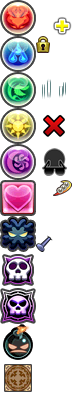
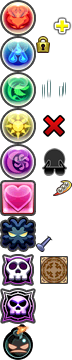
增加版面的状态合并

diff --git a/script-skill-parser.js b/script-skill-parser.js
@@ -96,6 +96,22 @@ function isEqual(obj1,obj2) {
 	// 3.全相等
 	return true
 }
+class Orb
+{
+	color = null;
+	states = [];
+	enhanced = false; //锁定
+	locked = false; //锁定
+	bound = false;
+	variation = false; //随机变换
+	constructor(color)
+	{
+		this.color = color;
+	}
+	valueOf() {
+		return this.color;
+	}
+}
 class Board
 {
 	rowCount = 6;
@@ -105,8 +121,14 @@ class Board
 	{
 		for (let ri=0;ri<this.rowCount;ri++)
 		{
-			this.data.push(new Array(this.columnCount).fill(Array.isArray(def) ? null : def));
+			const col = [];
+			for (let ci=0;ci<this.columnCount;ci++)
+			{
+				col.push(new Orb(Array.isArray(def) ? null : def));
+			}
+			this.data.push(col);
 		}
+		//如果传入的是数组，直接随机分布
 		if (Array.isArray(def))
 		{
 			this.randomFill(def);
@@ -127,8 +149,12 @@ class Board
 			{
 				if (ci == 3) ci++;
 				//从数组中随机取出一个
-				if (exclude && exclude.includes(row[ci])) continue;
-				row[ci] = o.next().value?.[1] ?? row[ci];
+				if (exclude && exclude.includes(row[ci].color)) continue;
+				const c = o.next().value?.[1] ?? row[ci].color;
+				if (c == "variation")
+					row[ci].states.push(c);
+				else
+					row[ci].color = c;
 			}
 		}
 		//填充剩下的部分
@@ -136,14 +162,22 @@ class Board
 		{
 			if (ri == 2) ri++;
 			const row = this.data[ri];
-			if (exclude && exclude.includes(row[3])) continue;
-			row[3] = o.next().value?.[1] ?? row[3] ;
+			if (exclude && exclude.includes(row[3].color)) continue;
+			const c = o.next().value?.[1] ?? row[3].color;
+			if (c == "variation")
+				row[3].states.push(c);
+			else
+				row[3].color = c;
 		}
 		const row = this.data[2];
 		for (let ci=0;ci<row.length;ci++)
 		{
-			if (exclude && exclude.includes(row[ci])) continue;
-			row[ci] = o.next().value?.[1] ?? row[ci] ;
+			if (exclude && exclude.includes(row[ci].color)) continue;
+			const c = o.next().value?.[1] ?? row[3].color;
+			if (c == "variation")
+				row[ci].states.push(c);
+			else
+				row[ci].color = c;
 		}
 	}
 	//将有序数组转为随机的数组
@@ -196,27 +230,27 @@ class Board
 		this.sequenceFill(randomData, exclude);
 	}
 	//设定横行
-	setRow(rows, attr = 0)
+	setRow(rowsNumber, attr = 0)
 	{
-		for (let row of rows)
+		for (let row of rowsNumber)
 		{
 			if (row >= 2) row++;
 			const rowData = this.data[row];
 			for (let ri=0;ri<rowData.length;ri++)
 			{
-				rowData[ri] = attr;
+				rowData[ri].color = attr;
 			}
 		}
 	}
 	//设定竖列
-	setColumn(cols, attr = 0)
+	setColumn(colsNumber, attr = 0)
 	{
-		for (let col of cols)
+		for (let col of colsNumber)
 		{
 			if (col >= 3) col++;
 			for (let row of this.data)
 			{
-				row[col] = attr;
+				row[col].color = attr;
 			}
 		}
 	}
@@ -225,14 +259,22 @@ class Board
 	{
 		function fillRow(rowData, inputRow, attr)
 		{
-			for (let col of inputRow)
+			for (const col of inputRow)
 			{
-				if (col == 3) rowData[col] = attr;
+				if (col == 3) {
+					if (attr == "variation")
+						rowData[col].states.push(attr);
+					else
+						rowData[col].color = attr;
+				}
 				if (col >= 3) col++;
-				rowData[col] = attr;
+				if (attr == "variation")
+					rowData[col].states.push(attr);
+				else
+					rowData[col].color = attr;
 			}
 		}
-		for (let ri=0;ri<matrix.length;ri++)
+		for (let ri=0; ri<matrix.length; ri++)
 		{
 			if (ri == 2)
 			{
@@ -244,13 +286,13 @@ class Board
 	//面板叠加
 	overlayBoard(board)
 	{	
-		for (let ri=0;ri<board.length;ri++)
+		for (let ri=0; ri<board.length; ri++)
 		{
 			const rowNew = board[ri];
 			const rowOld = this.data[ri];
-			for (let ci=0;ci<rowNew.length;ci++)
+			for (let ci=0; ci < rowNew.length; ci++)
 			{
-				rowOld[ci] = rowNew[ci] ?? rowOld[ci];
+				rowOld[ci] = Object.assign(rowOld[ci], rowNew[ci]);
 			}
 		}
 	}
@@ -263,6 +305,7 @@ class Board
 	toTable()
 	{
 		const table = document.createElement("table");
+		table.boardData = this.data;
 		table.className = "board";
 		this.data.forEach((rowData, ri, rArr) => {
 			const row = table.insertRow();
@@ -272,15 +315,16 @@ class Board
 				const cell = row.insertCell();
 				const orb = cell.appendChild(document.createElement('icon'));
 				orb.className = "orb";
-				if (orbType != null) orb.setAttribute("data-orb-icon", orbType);
+				if (orbType.color != null) orb.setAttribute("data-orb-icon", orbType.color);
+				orbType.states.forEach(state=>orb.classList.add(state));
 				if (ci == 3 && cArr.length > 6) cell.classList.add("board-cell5");
 			});
 		});
-		if (this.data.length > 5)
-		{
-			table.onclick = function() {
-				this.classList.toggle("board-76");
-			};
+		if (this.data.length > 5) {
+			table.onclick = toggle76;
+		}
+		function toggle76() {
+			this.classList.toggle("board-76");
 		}
 		return table;
 	}
@@ -1522,8 +1566,9 @@ function renderSkillEntry(skills)
 		let boardChange = skills.filter(skill=>
 			skill.kind == SkillKinds.BoardChange ||
 			skill.kind == SkillKinds.GenerateOrbs ||
-			skill.kind == SkillKinds.FixedOrbs
-		);
+			skill.kind == SkillKinds.FixedOrbs ||
+			skill.kind == SkillKinds.ActiveTurns && (skill.skill.kind == SkillKinds.FixedOrbs || skill.skill.kind == SkillKinds.GenerateOrbs)
+		).map(skill=>skill.kind == SkillKinds.ActiveTurns ? skill.skill : skill);
 		if (boardChange.length > 0)
 		{
 			const board = new Board();
@@ -1556,6 +1601,21 @@ function renderSkillEntry(skills)
 							}
 						}
 						break;
+					}
+				}
+			}
+			const setOrbState = skills.filter(skill=>skill.kind == SkillKinds.SetOrbState ||
+				skill.kind == SkillKinds.ActiveTurns && (skill.skill.kind == SkillKinds.SetOrbState)
+			).map(skill=>skill.kind == SkillKinds.ActiveTurns ? skill.skill : skill);
+			const boardData = board.data.flat();
+			for (let skill of setOrbState) {
+				if (["enhanced", "locked", "bound"].includes(skill.state)) {
+					const orbCount = skill.arg?.count?.value ?? boardData.length;
+					for (let oi = 0; oi < orbCount; oi++) {
+						const orb = boardData[oi];
+						if (skill.orbs.includes(orb.color)) {
+							orb.states.push(skill.state);
+						}
 					}
 				}
 			}
@@ -2366,7 +2426,10 @@ function renderOrbs(attrs, option = {}) {
 			const icon = document.createElement("icon");
 			icon.className = "orb";
 			if (option.className) icon.className += " " + option.className;
-			icon.setAttribute("data-orb-icon",attr);
+			if (attr == 'variation')
+				icon.classList.add('variation');
+			else
+				icon.setAttribute("data-orb-icon",attr);
 			let dict = {
 				icon: icon,
 			}

diff --git a/service-worker.js b/service-worker.js
@@ -5979,7 +5979,7 @@ const cachesMap = new Map([
 	],
 	[
 		"script-skill-parser.js",
-		"1380f9e54d6bbceb605181b7bfeb2c3b"
+		"7acbb8fc22d0112f01beb8c6bf040a93"
 	],
 	[
 		"script-universal_function.js",
@@ -5999,7 +5999,7 @@ const cachesMap = new Map([
 	],
 	[
 		"style-monsterimages.css",
-		"98897b24652c22acd257c7b9e3fe2c25"
+		"773e7da6f8f97545e5b193339b2a66f4"
 	],
 	[
 		"style.css",
@@ -6147,7 +6147,7 @@ const cachesMap = new Map([
 	],
 	[
 		"images/icon-orbs.png",
-		"c781a7f8165730312529ddb49f439870"
+		"5a984aca3416ae5e739aebe8518fb1f2"
 	],
 	[
 		"images/icon-poison.png",

diff --git a/style-monsterimages.css b/style-monsterimages.css
@@ -1342,6 +1342,11 @@ icon.type
 	background-position-y:calc(-36px * 3);
 	animation: hidden-visible-animate 0.8s infinite ease-out alternate;
 }
+.orb.variation::before
+{
+	content: "";
+	background-position-y:calc(-36px * 7);
+}
 
 .orb[data-orb-icon='_5color']
 {
@@ -1391,8 +1396,4 @@ icon.type
 .orb[data-orb-icon='9']
 {
 	background-position-y:calc(-36px * 9);
-}
-.orb[data-orb-icon='variation']
-{
-	background-position-y:calc(-36px * 10);
 }
